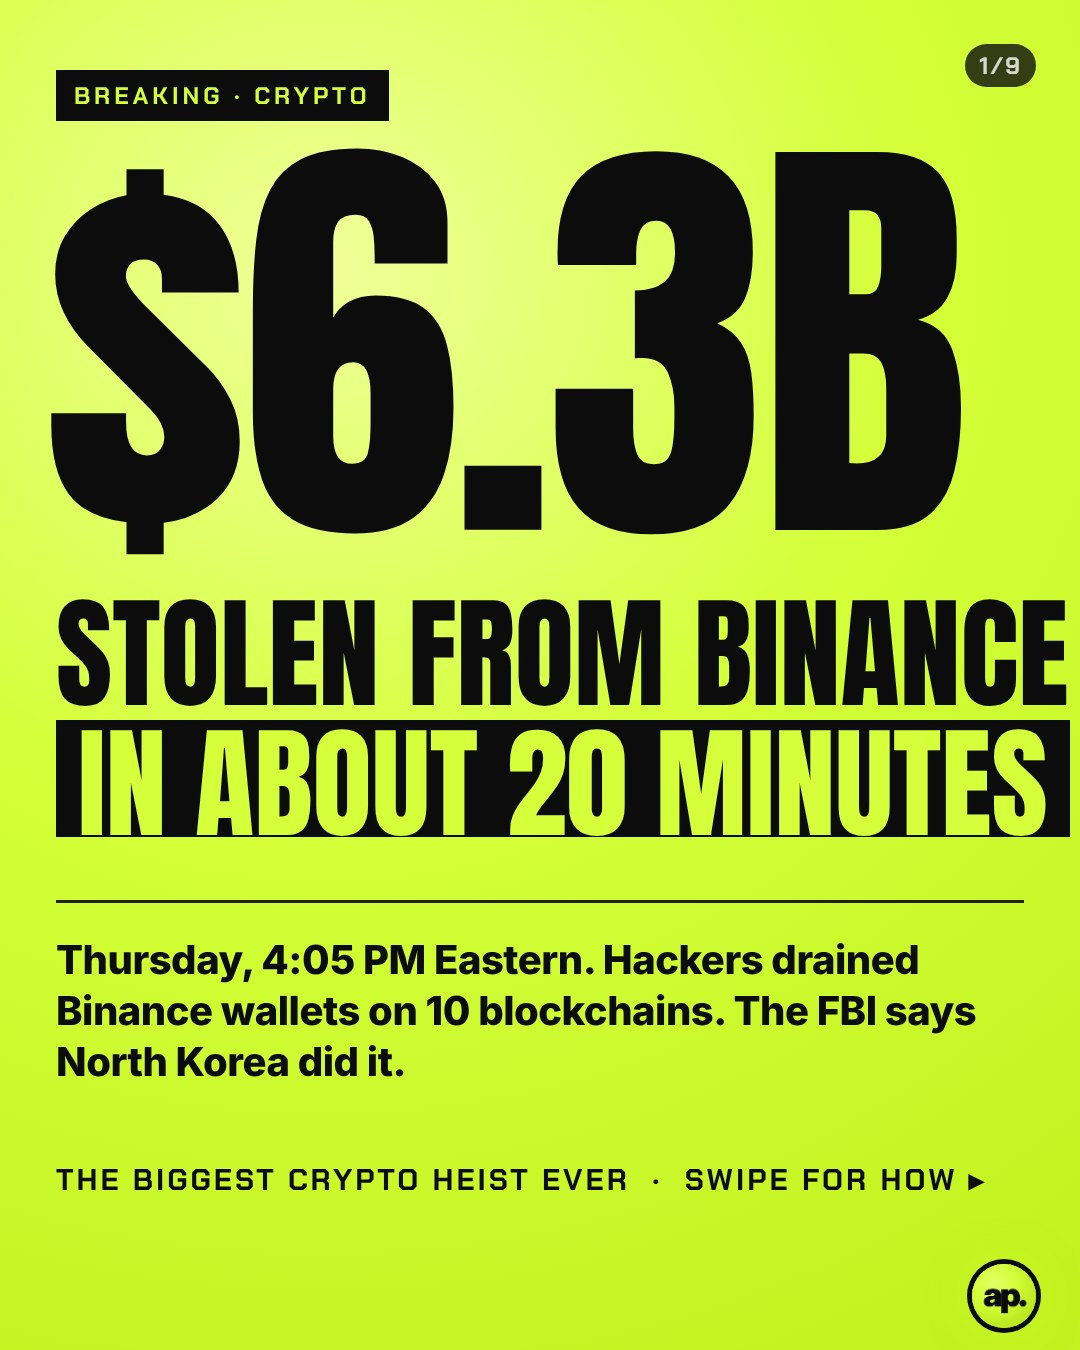
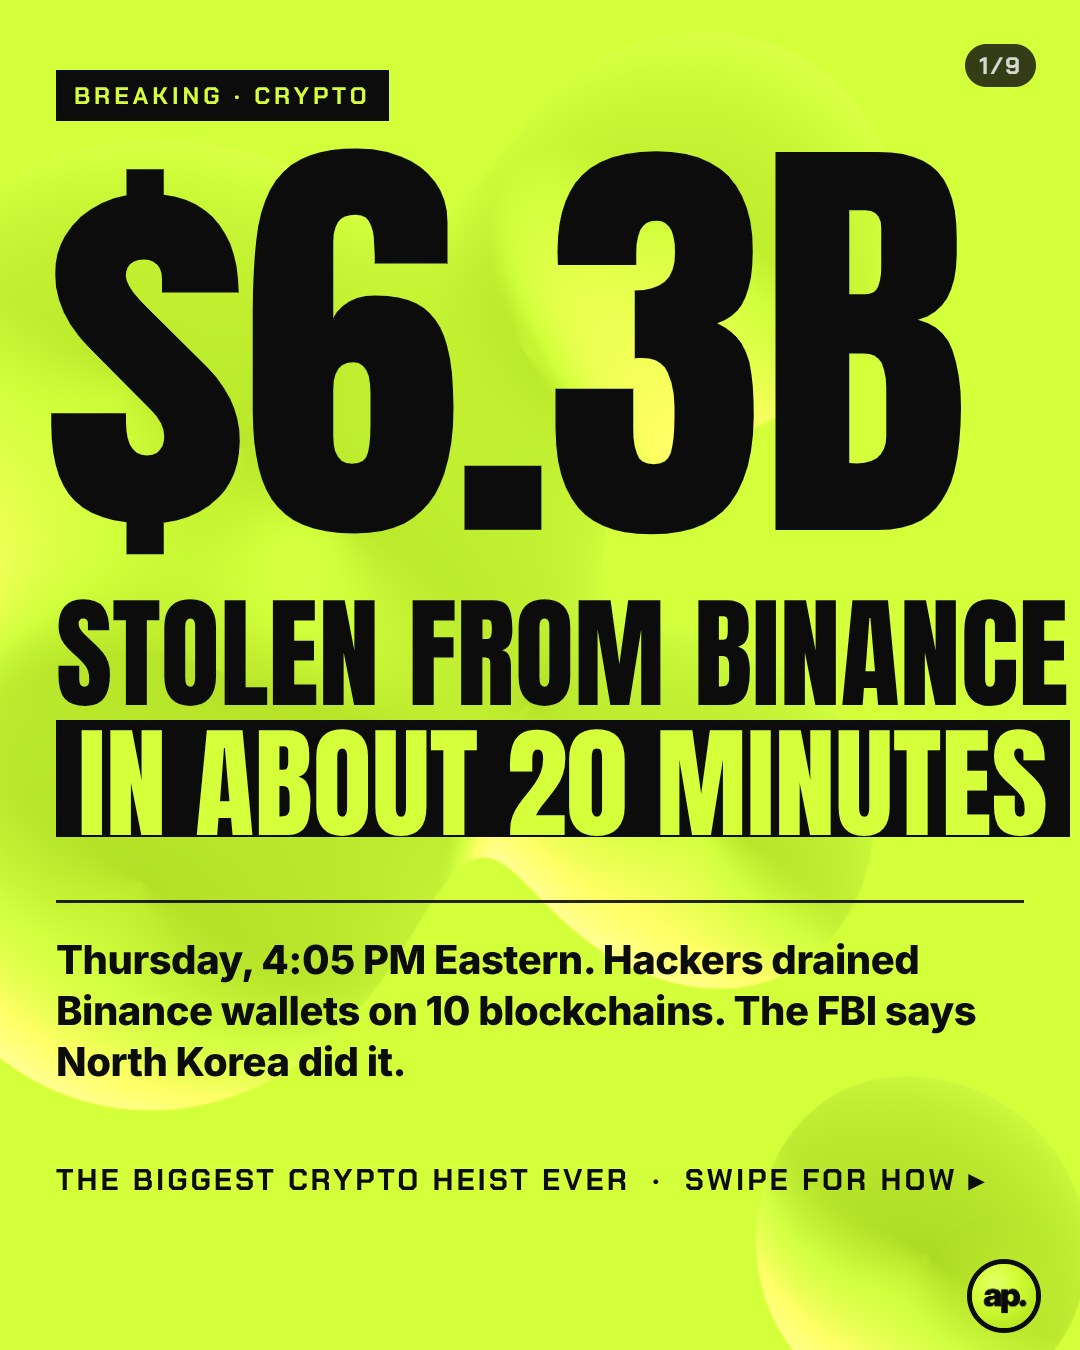
Carousels: lava lamp covers, photo cover layout, cutouts for photos Seb sends
Claude-Session: https://claude.ai/code/session_01LKQNuEnmvMjGabLVVX6Xfj

diff --git a/tools/carousel/lava.html b/tools/carousel/lava.html
@@ -1,0 +1,41 @@
+<!DOCTYPE html>
+<html><head><meta charset="utf-8"><style>*{margin:0;padding:0}html,body{width:1080px;height:1350px;overflow:hidden;background:#000}canvas{display:block}</style></head>
+<body><canvas id="c" width="1080" height="1350"></canvas>
+<script>
+// Lava lamp background for carousel covers: glossy metaballs that drift and merge, lime rim light.
+// ?pal=dark|lime|white&seed=N ; window.render(t) draws time t (seconds), loops every LOOP seconds.
+const q=new URLSearchParams(location.search), pal=q.get('pal')||'dark', seed=+(q.get('seed')||1), LOOP=8;
+const P={dark:{base:[.018,.02,.018],body:[.03,.04,.025],body2:[.07,.10,.04],rim:[.83,1.0,.23],rimK:.9,alpha:.9},
+         lime:{base:[.83,1.0,.23],body:[.58,.76,.08],body2:[.76,.95,.18],rim:[1.0,1.0,.86],rimK:.65,alpha:.62},
+         white:{base:[.95,.95,.93],body:[.78,.79,.75],body2:[.90,.91,.88],rim:[.70,.92,.10],rimK:.85,alpha:.7}}[pal];
+const gl=document.getElementById('c').getContext('webgl',{preserveDrawingBuffer:true,antialias:true});
+const vs=`attribute vec2 p;void main(){gl_Position=vec4(p,0.,1.);}`;
+const fs=`precision highp float;uniform float t;uniform vec2 R;uniform vec3 base,body,body2,rim;uniform float rimK,alpha,sd;
+const float TAU=6.2831853;
+float field(vec2 p){float f=0.;
+ for(int i=0;i<6;i++){float fi=float(i);float a=TAU*(t/${LOOP}.);
+  vec2 c=vec2(.5+.42*sin(a+fi*1.9+sd)+.06*sin(2.*a+fi),.62+.52*cos(a+fi*2.4+sd*.7)+.05*cos(2.*a+fi*1.3));
+  float r=.11+.08*fract(sin(fi*12.9+sd)*43.7);
+  vec2 d=p-c;f+=r*r/(dot(d,d)+.0004);}
+ return f;}
+float qf(vec2 p){return inversesqrt(field(p));}
+void main(){vec2 uv=gl_FragCoord.xy/R.x;float q=qf(uv);
+ float e=1./R.x;vec2 g=vec2(qf(uv+vec2(e,0.))-qf(uv-vec2(e,0.)),qf(uv+vec2(0.,e))-qf(uv-vec2(0.,e)))/(2.*e);
+ float gn=max(length(g),1e-4);float dist=(1.-q)/gn;vec2 nrm=g/gn;
+ float inside=smoothstep(-.0015,.0015,dist);
+ float facing=clamp(dot(nrm,normalize(vec2(-.55,-.85))),0.,1.);float back=clamp(dot(nrm,normalize(vec2(.6,.8))),0.,1.);
+ float rimMask=exp(-max(dist,0.)*16.);
+ vec3 b=mix(body,body2,clamp(uv.y*.6+facing*.35,0.,1.));
+ vec3 col=b+rim*rimMask*(.15+1.05*pow(facing,1.4))*rimK+rim*rimMask*back*.12*rimK;
+ vec3 o=mix(base,mix(base,col,alpha),inside);
+ gl_FragColor=vec4(o,1.);}`;
+function sh(type,src){const s=gl.createShader(type);gl.shaderSource(s,src);gl.compileShader(s);if(!gl.getShaderParameter(s,gl.COMPILE_STATUS))throw gl.getShaderInfoLog(s);return s}
+const pr=gl.createProgram();gl.attachShader(pr,sh(gl.VERTEX_SHADER,vs));gl.attachShader(pr,sh(gl.FRAGMENT_SHADER,fs));gl.linkProgram(pr);gl.useProgram(pr);
+const b=gl.createBuffer();gl.bindBuffer(gl.ARRAY_BUFFER,b);gl.bufferData(gl.ARRAY_BUFFER,new Float32Array([-1,-1,1,-1,-1,1,1,1]),gl.STATIC_DRAW);
+const loc=gl.getAttribLocation(pr,'p');gl.enableVertexAttribArray(loc);gl.vertexAttribPointer(loc,2,gl.FLOAT,false,0,0);
+const U=n=>gl.getUniformLocation(pr,n);
+gl.uniform2f(U('R'),1080,1350);gl.uniform3fv(U('base'),P.base);gl.uniform3fv(U('body'),P.body);gl.uniform3fv(U('body2'),P.body2);gl.uniform3fv(U('rim'),P.rim);
+gl.uniform1f(U('rimK'),P.rimK);gl.uniform1f(U('alpha'),P.alpha);gl.uniform1f(U('sd'),seed*1.37);
+window.LOOP=LOOP;window.render=t=>{gl.uniform1f(U('t'),t%LOOP);gl.drawArrays(gl.TRIANGLE_STRIP,0,4);gl.finish();return t};
+window.render(0);window.READY=1;
+</script></body></html>

diff --git a/tools/carousel/style.css b/tools/carousel/style.css
@@ -185,3 +185,30 @@
 .th-light .s:not(#s1) .handle{color:#0009}.th-light .s:not(#s1) .pg{background:#0c0c0c;color:#fff}
 .th-light .s:not(#s1) .in,.th-lime .s:not(#s1) .in{width:968px}
 .th-light .s:not(#s1) .t,.th-lime .s:not(#s1) .t{font-size:150px}
+
+/* lava lamp animated cover (WebGL iframe behind the composition) */
+.lava{position:absolute;inset:0;width:1080px;height:1350px;border:0;z-index:0;pointer-events:none}
+.lavafg{position:absolute;inset:0;z-index:1}
+
+/* photo cover: photo up top, cutout subject with lime rim, divider with our mark, justified headline */
+.L-photo{background:#0a0a0a}
+.ph-bg{position:absolute;left:0;top:0;width:1080px;height:900px;background-size:cover;filter:saturate(.9) contrast(1.05) brightness(.7)}
+.L-photo.has-cut .ph-bg{filter:blur(7px) saturate(.45) brightness(.38);transform:scale(1.08)}
+.ph-tint{position:absolute;inset:0;z-index:1;background:radial-gradient(55% 34% at 50% 40%,rgba(212,255,58,.16),transparent 72%),linear-gradient(180deg,rgba(10,10,10,.25) 0,rgba(10,10,10,0) 30%,rgba(10,10,10,.55) 52%,#0a0a0a 63%)}
+.ph-cut{position:absolute;bottom:505px;transform:translateX(-50%);max-width:1060px;object-fit:contain;object-position:bottom;z-index:2;
+ -webkit-mask-image:linear-gradient(180deg,#000 82%,transparent 100%);
+ filter:drop-shadow(0 0 1.5px rgba(212,255,58,.95)) drop-shadow(0 0 36px rgba(212,255,58,.28)) drop-shadow(0 26px 40px rgba(0,0,0,.7))}
+.ph-badge{position:absolute;top:96px;right:64px;width:300px;height:300px;border-radius:50%;background:#f2f2ee;border:7px solid #D4FF3A;z-index:3;display:flex;align-items:center;justify-content:center;box-shadow:0 24px 60px rgba(0,0,0,.55);overflow:hidden}
+.ph-badge img{max-width:78%;max-height:78%;object-fit:contain}
+.ph-kick{position:absolute;top:56px;left:56px;z-index:3;background:#D4FF3A;color:#0c0c0c;font:700 24px/1 C;letter-spacing:.16em;padding:11px 16px 9px;text-transform:uppercase}
+.ph-div{position:absolute;top:836px;left:56px;right:56px;display:flex;align-items:center;gap:22px;z-index:4}
+.ph-div i{flex:1;height:2px;background:rgba(244,244,244,.85)}
+.ph-div img{width:66px;height:66px}
+.ph-text{position:absolute;top:900px;left:50px;width:980px;z-index:4}
+.ph-text .ln{margin:0 auto;line-height:.95;text-shadow:none}
+.ph-text .l{color:#D4FF3A}
+.ph-sub{margin-top:18px;font:500 31px/1.3 I;color:rgba(244,244,244,.86);text-align:center}
+.ph-sub .l{color:#D4FF3A;font-weight:700}
+.ph-swipe{position:absolute;bottom:30px;left:0;right:0;text-align:center;font:600 24px/1 C;letter-spacing:.2em;color:#f4f4f4;z-index:4}
+.ph-swipe b{color:#D4FF3A}
+.L-photo .pg{z-index:5}

diff --git a/tools/carousel/build.py b/tools/carousel/build.py
@@ -125,10 +125,37 @@ def chevrons(x, y, n_gray=2, n_lime=3):
     return f'<div class="chev2" style="left:{x}px;top:{y}px">' + "<b></b>" * n_gray + '<b class="g"></b>' * n_lime + "</div>"
 
 
+def cover_photo(p, n):
+    """Photo cover (news with a real photo): photo up top, the subject cut out and lifted off it with a lime rim,
+    optional round badge holding a second cutout (an object, never a company logo), divider with our mark, then the
+    headline as full width justified lines (*word* = lime). Spec: p["photo"] = {src, cut?, badge?, pos?, cut_h?, cut_x?,
+    lines: [...], sub?, kicker?}"""
+    ph = p["photo"]
+    cut = (f'<img class="ph-cut" src="{E(ph["cut"])}" style="height:{ph.get("cut_h", 760)}px;left:{ph.get("cut_x", 540)}px">'
+           if ph.get("cut") else "")
+    badge = f'<div class="ph-badge"><img src="{E(ph["badge"])}"></div>' if ph.get("badge") else ""
+    kick = f'<div class="ph-kick">{E(ph["kicker"])}</div>' if ph.get("kicker") else ""
+    lines = "".join(f'<div class="ln">{lime(l)}</div>' for l in ph["lines"])
+    sub = f'<div class="ph-sub">{lime(ph["sub"])}</div>' if ph.get("sub") else ""
+    return (f'<div class="s L-photo{" has-cut" if cut else ""}" id="s1">'
+            f'<div class="ph-bg" style="background-image:url(\'{E(ph["src"])}\');background-position:{ph.get("pos", "center 30%")}"></div>'
+            f'<div class="ph-tint"></div>{cut}{badge}{kick}'
+            f'<div class="ph-div"><i></i><img src="/docs/logo.png"><i></i></div>'
+            f'<div class="ph-text"><div class="fitl" data-w="980">{lines}</div>{sub}</div>'
+            f'<div class="ph-swipe">SWIPE FOR MORE <b>&#9656;</b></div>{GRAIN}<div class="pg">1/{n}</div></div>')
+
+
 def cover(p, n):
+    if p.get("photo"):
+        return cover_photo(p, n)
     if p.get("cover_html"):
         cls = p.get("cover_bg", "bg-black")
-        return (f'<div class="s {cls}" id="s1">{p["cover_html"]}{GRAIN if p.get("grain", True) else ""}'
+        lava = ""
+        if p.get("lava", True):
+            pal = {"bg-black": "dark", "bg-lime": "lime", "bg-white": "white"}.get(cls, "dark")
+            lava = f'<iframe class="lava" style="opacity:{p.get('lava_opacity', {'dark': .6, 'lime': .75, 'white': .8}[pal])}" src="/tools/carousel/lava.html?pal={pal}&seed={p.get("seed", 2)}"></iframe>'
+        body = f'<div class="lavafg">{p["cover_html"]}</div>' if lava else p["cover_html"]
+        return (f'<div class="s {cls}" id="s1">{lava}{body}{GRAIN if p.get("grain", True) else ""}'
                 f'<img class="aplogo" src="/docs/logo.png"><div class="pg">1/{n}</div></div>')
     lay = p.get("layout", "stack")
     if lay == "stack":
@@ -221,9 +248,16 @@ def build(cid):
     page = f"<!doctype html><html><head><meta charset=utf-8><style>{CSS}</style></head><body class=\"th-{p.get('theme', 'dark')}\">{''.join(slides)}{FIT}</body></html>"
     hp = os.path.join(ROOT, "tools", "carousel", f"_{cid}.html"); open(hp, "w").write(page)
     out = os.path.join(ROOT, "docs", "media", "car", cid); os.makedirs(out, exist_ok=True)
-    js = f"""const {{chromium}}=require('playwright');(async()=>{{const b=await chromium.launch();const p=await b.newPage({{viewport:{{width:1080,height:1350}}}});
+    lava = bool(p.get("cover_html")) and p.get("lava", True)
+    FRAMES = 192 if (lava and os.environ.get("CAR_STILL") != "1") else 0
+    fdir = f"/tmp/carframes/{cid}"
+    if FRAMES:
+        subprocess.run(["rm", "-rf", fdir]); os.makedirs(fdir)
+    js = f"""const {{chromium}}=require('playwright');(async()=>{{const b=await chromium.launch({{args:['--use-angle=swiftshader','--enable-unsafe-swiftshader','--ignore-gpu-blocklist','--enable-webgl']}});const p=await b.newPage({{viewport:{{width:1080,height:1350}}}});
 await p.goto('http://localhost:8779/tools/carousel/_{cid}.html');await p.waitForFunction(()=>document.body.dataset.ready==='1');
+const lf=p.frames().find(f=>f.url().includes('lava.html'));if(lf){{await lf.waitForFunction(()=>window.READY===1,null,{{timeout:60000}});await lf.evaluate(()=>window.render(0))}}
 for(let i=1;i<={n};i++){{await (await p.$('#s'+i)).screenshot({{path:'{out}/'+String(i).padStart(2,'0')+'.jpg',type:'jpeg',quality:88}})}}
+if(lf&&{FRAMES}){{const s1=await p.$('#s1');for(let k=0;k<{FRAMES};k++){{await lf.evaluate(t=>window.render(t),k*8/{FRAMES});await s1.screenshot({{path:'{fdir}/'+String(k).padStart(4,'0')+'.jpg',type:'jpeg',quality:92}})}}}}
 await b.close()}})();"""
     srv = subprocess.Popen([sys.executable, "-m", "http.server", "8779"], cwd=ROOT, stdout=subprocess.DEVNULL, stderr=subprocess.DEVNULL)
     try:
@@ -231,6 +265,12 @@ await b.close()}})();"""
         subprocess.run(["node", "-e", js], check=True, cwd="/tmp")
     finally:
         srv.terminate()
+    if FRAMES:
+        subprocess.run(["ffmpeg", "-y", "-loglevel", "error", "-framerate", "24", "-i", f"{fdir}/%04d.jpg", "-c:v", "libx264", "-preset", "veryfast",
+                        "-crf", "20", "-pix_fmt", "yuv420p", "-movflags", "+faststart", os.path.join(out, "cover.mp4")], check=True)
+        # 3 loops = 24s so IG plays it long enough to read
+        subprocess.run(["ffmpeg", "-y", "-loglevel", "error", "-stream_loop", "2", "-i", os.path.join(out, "cover.mp4"), "-c", "copy", os.path.join(out, "cover_ig.mp4")], check=True)
+        print(f"animated cover: docs/media/car/{cid}/cover.mp4")
     print(f"carousel ready: docs/media/car/{cid}/ ({n} slides)")
     return n
 

diff --git a/scripts/photos.py b/scripts/photos.py
@@ -8,6 +8,10 @@ with rembg, save to docs/media/car/photos/<slug>/:
   credits.json photographer, page url, Pexels id (Pexels asks for credit when possible; we keep it with the image)
 Rules: never request a named real person; generic people, hands, objects and places only. Status becomes "done" or "failed".
 
+Seb's own photos (sent in chat): queue/photos/<slug>.json {"files": ["queue/photos/in/<slug>/1.jpg", ...], "source": "...",
+  "status": "pending"}. No Pexels call, just resize + cutout, same outputs. "source" records where the photo came from
+  (his own shot, an official press kit, licensed). Posts using a real person's photo always go to Seb for approval.
+
     python3 scripts/photos.py            (needs PEXELS_API_KEY)"""
 import glob, io, json, os, sys, urllib.parse, urllib.request
 
@@ -21,8 +25,6 @@ def get(url, headers=None):
 
 
 def run():
-    if not KEY:
-        print("No PEXELS_API_KEY yet"); return 0
     from PIL import Image
     from rembg import remove, new_session
     session = new_session("isnet-general-use")
@@ -32,6 +34,24 @@ def run():
         if r.get("status") != "pending":
             continue
         slug = os.path.basename(f)[:-5]; out = os.path.join(ROOT, "docs", "media", "car", "photos", slug); os.makedirs(out, exist_ok=True)
+        if r.get("files"):
+            try:
+                credits = []
+                for i, fp in enumerate(r["files"], 1):
+                    img = Image.open(os.path.join(ROOT, fp)).convert("RGB"); img.thumbnail((1600, 1600))
+                    img.save(os.path.join(out, f"{i:02d}.jpg"), quality=90)
+                    cut = remove(img, session=session); bbox = cut.getbbox()
+                    if bbox:
+                        cut = cut.crop(bbox)
+                    cut.save(os.path.join(out, f"{i:02d}_cut.png"))
+                    credits.append({"n": i, "file": fp, "source": r.get("source", "sent by Seb")})
+                json.dump({"credits": credits}, open(os.path.join(out, "credits.json"), "w"), indent=1)
+                r["status"] = "done"; r["count"] = len(credits)
+            except Exception as e:
+                r["status"] = "failed"; r["error"] = repr(e)[:300]
+            json.dump(r, open(f, "w"), indent=1); done += 1; print(slug, r["status"]); continue
+        if not KEY:
+            print(slug, "waiting: no PEXELS_API_KEY yet"); continue
         try:
             q = urllib.parse.urlencode({"query": r["query"], "orientation": r.get("orientation", "portrait"), "per_page": r.get("n", 3), "size": "large"})
             res = json.loads(get("https://api.pexels.com/v1/search?" + q, {"Authorization": KEY}))
